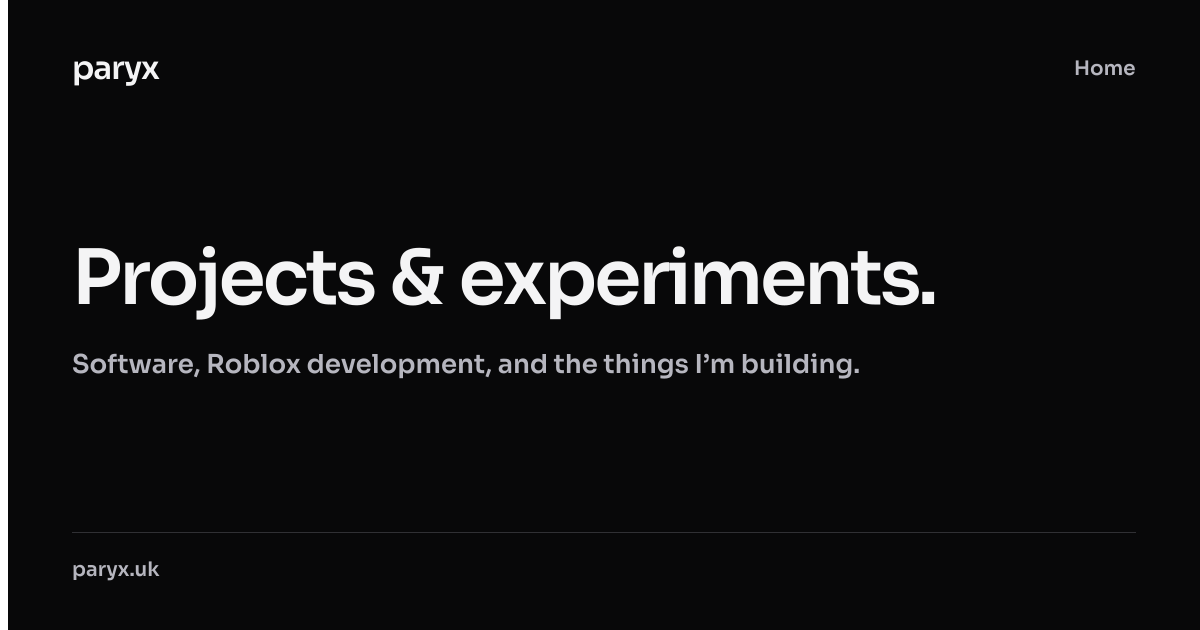
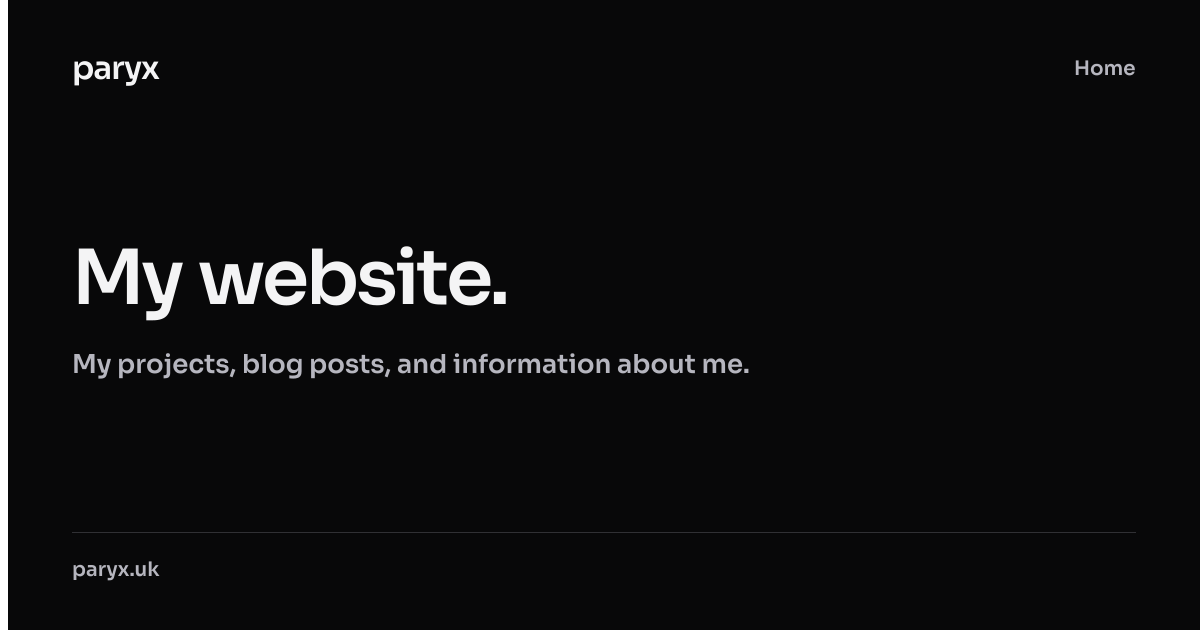
fix(copy): use literal descriptions for pages and embeds

Changed region(s): [[0.0617, 0.3921, 0.8017, 0.5127], [0.0617, 0.5429, 0.7092, 0.6032]]

diff --git a/www/portfolio.html b/www/portfolio.html
@@ -4,7 +4,7 @@
   <meta charset="UTF-8">
   <meta name="viewport" content="width=device-width, initial-scale=1">
   <title>Paryx - Portfolio</title>
-  <meta name="description" content="Paryx's Roblox portfolio. A space for featured projects and a collection of Roblox work.">
+  <meta name="description" content="My portfolio for projects in Roblox, coding, and other platforms.">
   <link rel="canonical" href="https://paryx.uk/portfolio">
   <meta name="robots" content="index, follow">
   <meta name="theme-color" content="#ffffff">
@@ -12,19 +12,19 @@
   <meta property="og:type" content="website">
   <meta property="og:url" content="https://paryx.uk/portfolio">
   <meta property="og:title" content="Paryx - Portfolio">
-  <meta property="og:description" content="A space for Paryx's Roblox projects.">
+  <meta property="og:description" content="My portfolio for projects in Roblox, coding, and other platforms.">
   <meta property="og:site_name" content="paryx.uk">
   <meta property="og:locale" content="en_GB">
   <meta property="og:image" content="https://paryx.uk/assets/social/portfolio.png">
   <meta property="og:image:type" content="image/png">
   <meta property="og:image:width" content="1200">
   <meta property="og:image:height" content="630">
-  <meta property="og:image:alt" content="Paryx's portfolio — Roblox builds and code, on a dark background">
+  <meta property="og:image:alt" content="My portfolio — paryx.uk/portfolio, on a dark background">
   <meta name="twitter:card" content="summary_large_image">
   <meta name="twitter:title" content="Paryx - Portfolio">
-  <meta name="twitter:description" content="A space for Paryx's Roblox projects.">
+  <meta name="twitter:description" content="My portfolio for projects in Roblox, coding, and other platforms.">
   <meta name="twitter:image" content="https://paryx.uk/assets/social/portfolio.png">
-  <meta name="twitter:image:alt" content="Paryx's portfolio — Roblox builds and code, on a dark background">
+  <meta name="twitter:image:alt" content="My portfolio — paryx.uk/portfolio, on a dark background">
   <link rel="preconnect" href="https://fonts.googleapis.com">
   <link rel="preconnect" href="https://fonts.gstatic.com" crossorigin>
   <link href="https://fonts.googleapis.com/css2?family=Inter:wght@400;500;600&family=Sora:wght@400;500;600;700&display=swap" rel="stylesheet">
@@ -181,7 +181,7 @@
     <main id="portfolio-content" class="portfolio">
       <header class="portfolio-intro">
         <h1>Portfolio</h1>
-        <p>A space for my Roblox projects, from experiences to the things built around them.</p>
+        <p>My portfolio for projects in Roblox, coding, and other platforms.</p>
         <nav class="portfolio-sections-nav" aria-label="Portfolio sections" hidden></nav>
       </header>
       <p id="portfolio-status" role="status" hidden></p>
@@ -208,7 +208,7 @@
     <div class="footer-main">
       <div class="footer-identity">
         <a class="footer-brand" href="/">paryx</a>
-        <p>Projects, experiments, and the things I'm building.</p>
+        <p>My projects, blog posts, and information about me.</p>
       </div>
       <nav aria-label="Explore the site">
         <h2>Explore</h2>

diff --git a/www/index.html b/www/index.html
@@ -16,7 +16,7 @@
   <meta name="viewport" content="width=device-width, initial-scale=1">
   <title>Paryx - Home</title>
   <meta name="description"
-    content="paryx.uk is Paryx's personal developer site, featuring software projects, Roblox development, experiments, GitHub repositories, and live activity.">
+    content="My projects, blog posts, and information about me.">
   <meta name="application-name" content="paryx.uk">
   <link rel="canonical" href="https://paryx.uk/">
   <meta name="robots" content="index, follow">
@@ -26,20 +26,20 @@
   <meta property="og:url" content="https://paryx.uk/">
   <meta property="og:title" content="paryx.uk">
   <meta property="og:description"
-    content="Paryx's personal developer site for software projects, Roblox development, experiments, GitHub repositories, and live activity.">
+    content="My projects, blog posts, and information about me.">
   <meta property="og:site_name" content="paryx.uk">
   <meta property="og:locale" content="en_GB">
   <meta property="og:image" content="https://paryx.uk/assets/social/home.png">
   <meta property="og:image:type" content="image/png">
   <meta property="og:image:width" content="1200">
   <meta property="og:image:height" content="630">
-  <meta property="og:image:alt" content="Paryx — projects and experiments, on a dark background">
+  <meta property="og:image:alt" content="My website — paryx.uk, on a dark background">
   <meta name="twitter:card" content="summary_large_image">
   <meta name="twitter:image" content="https://paryx.uk/assets/social/home.png">
-  <meta name="twitter:image:alt" content="Paryx — projects and experiments, on a dark background">
+  <meta name="twitter:image:alt" content="My website — paryx.uk, on a dark background">
   <meta name="twitter:title" content="paryx.uk">
   <meta name="twitter:description"
-    content="Paryx's personal developer site for software projects, Roblox development, experiments, GitHub repositories, and live activity.">
+    content="My projects, blog posts, and information about me.">
   <link rel="preconnect" href="https://fonts.googleapis.com">
   <link rel="preconnect" href="https://fonts.gstatic.com" crossorigin>
   <link href="https://fonts.googleapis.com/css2?family=Inter:wght@400;500;600;700&family=Sora:wght@400;600;675;700&display=swap" rel="stylesheet">
@@ -2291,7 +2291,7 @@
     <div class="footer-main">
       <div class="footer-identity">
         <a class="footer-brand" href="/">paryx</a>
-        <p>Projects, experiments, and the things I'm building.</p>
+        <p>My projects, blog posts, and information about me.</p>
       </div>
       <nav aria-label="Explore the site">
         <h2>Explore</h2>

diff --git a/blog/src/layout.tsx b/blog/src/layout.tsx
@@ -388,10 +388,7 @@ export function Document({
                 <a className="footer-brand" href="https://paryx.uk">
                   paryx
                 </a>
-                <p>
-                  Notes from my projects, experiments, and everything I learn
-                  along the way.
-                </p>
+                <p>{site.description}</p>
               </div>
               <nav aria-label="Explore the blog">
                 <h2>Explore</h2>
@@ -571,12 +568,12 @@ export function Listing({
     <main id="main" className="listing">
       <header className="listing-intro">
         <p className="eyebrow">The paryx blog</p>
-        <h1>{title ?? tag ?? 'Notes on building things.'}</h1>
+        <h1>{title ?? tag ?? 'My blog'}</h1>
         <p className="deck">
           {description ??
             (tag
               ? `Articles filed under ${tag}.`
-              : 'Software, experiments, and lessons learned along the way.')}
+              : site.description)}
         </p>
       </header>
       {introduction}

diff --git a/blog/scripts/build-site-previews.ts b/blog/scripts/build-site-previews.ts
@@ -7,15 +7,15 @@ await mkdir(output, { recursive: true });
 for (const page of [
   {
     filename: 'home.png',
-    title: 'Projects & experiments.',
-    description: 'Software, Roblox development, and the things I’m building.',
+    title: 'My website.',
+    description: 'My projects, blog posts, and information about me.',
     label: 'Home',
     domain: 'paryx.uk',
   },
   {
     filename: 'portfolio.png',
-    title: 'Portfolio.',
-    description: 'Roblox builds, code, and other projects by Paryx.',
+    title: 'My portfolio.',
+    description: 'My portfolio for projects in Roblox, coding, and other platforms.',
     label: 'Portfolio',
     domain: 'paryx.uk/portfolio',
   },

diff --git a/blog/scripts/build.tsx b/blog/scripts/build.tsx
@@ -63,7 +63,7 @@ export async function build({
   await writeFile(
     path.join(output, 'assets/social', 'blog.png'),
     await pageSocialImage({
-      title: 'Notes from the build.',
+      title: 'My blog.',
       description: site.description,
       label: 'Blog',
       domain: 'blog.paryx.uk',

diff --git a/blog/src/config.ts b/blog/src/config.ts
@@ -2,8 +2,7 @@
 export const site = {
   origin: 'https://blog.paryx.uk',
   name: 'paryx - Blog',
-  description:
-    'Notes on building things. Software, experiments, and lessons from paryx.',
+  description: 'Blog posts written by me.',
 };
 
 export function absoluteUrl(path: string): string {
